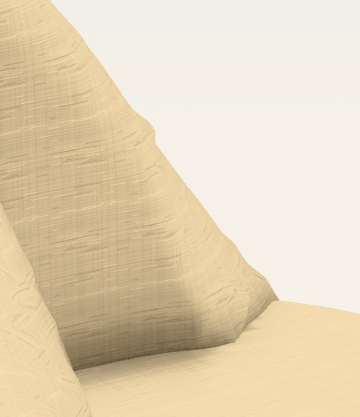
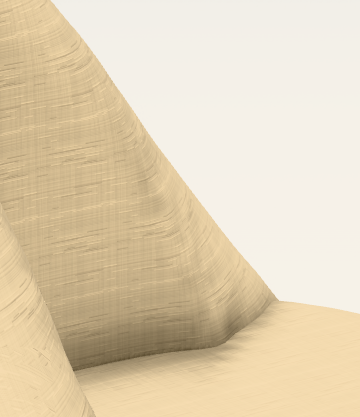
Zachte vormen: een wand met een steile bovenrand juist rekenen (naad van Pebble)
Gemeten op 13/11: waar de bovenrand van een gebogen wand steil zakt, was de afstand uit de motor bij
61 % (Pebble) en 74 % (Ross) van de punten meer dan 10 % fout, en week de richting tot ±100° af.
Twee oorzaken, allebei in `wand` (zachtevorm.ts):
- de hoogte van de rand volgde het dichtste punt van het pad, en dat verspringt op elk hoekpunt
  (trapjes tot 1 cm). Ze volgt nu de plaats tussen de twee verstekken van een stuk: overal vloeiend;
- de afstand werd niet gedeeld door de lengte van de helling.
Het oppervlak op de middenlijn blijft op de opgegeven hoogtes (test), dus boven- en vooraanzicht kloppen
nog. Nu 0 % fouten bij Pebble en Ross, zelfde rekentijd. Doha, Montego en de andere beelden: 0,00 %
verschil. Referenties van Pebble vernieuwd (heel beeld 0,05 %, close-up van de naad 1,47 %).

Claude-Session: https://claude.ai/code/session_01PczewFp9M8BS44vqTSpk6u

diff --git a/packages/core/src/zachtevorm.ts b/packages/core/src/zachtevorm.ts
@@ -137,33 +137,54 @@ function wand(b: Blok): Primitief {
   const pad = b.pad!, hoog = b.hoogtes!, w = (b.dikte ?? 14) / 2, onder = b.y;
   const n = pad.length;
   const xs = pad.map((p) => p[0]), zs = pad.map((p) => p[1]);
+  // Richting van het pad per punt: het gemiddelde van de twee stukken ernaast (de verstekrichting), genormaliseerd.
+  const vx = new Float64Array(n), vz = new Float64Array(n);
+  for (let i = 0; i < n; i++) {
+    let ax = 0, az = 0;
+    for (const k of [i - 1, i]) {
+      if (k < 0 || k > n - 2) continue;
+      const ux = pad[k + 1]![0] - pad[k]![0], uz = pad[k + 1]![1] - pad[k]![1], l = Math.hypot(ux, uz) || 1;
+      ax += ux / l; az += uz / l;
+    }
+    const l = Math.hypot(ax, az) || 1;
+    vx[i] = ax / l; vz[i] = az / l;
+  }
   /**
    * Dichtste punt op de middenlijn (in het grondvlak), gezocht in de stukken `van` tot en met `tot` van het pad: het
-   * verschil ernaartoe (0, 1), de hoogte daar (2), de helling van de bovenkant langs het pad maal de richting van het pad
-   * (3, 4) en het stuk (5). Aan een hoekpunt of uiteinde staat het dichtste punt stil: geen helling.
+   * verschil ernaartoe (0, 1), de hoogte van de bovenrand ter plaatse (2), de helling van die hoogte in het grondvlak
+   * (3, 4) en het stuk van het dichtste punt (5).
+   *
+   * De hoogte volgt niet het dichtste punt maar de plaats tussen de twee verstekken van een stuk (de lijnen door zijn
+   * eindpunten, haaks op de gemiddelde richting daar). Het dichtste punt verspringt op elk hoekpunt van het pad: aan de
+   * binnenkant van een bocht een sprong, aan de buitenkant een stukje waar het stilstaat. Op een steile rand gaf dat
+   * trapjes tot 1 cm in de hoogte: een bobbelige schaal (Pebble, gemeten op 13/11). Tussen de verstekken loopt de hoogte
+   * overal vloeiend door, ook rond een hoekpunt. Voorbij een uiteinde blijft de hoogte die van het uiteinde (ronde kop).
    */
   const dichtste = (x: number, z: number, o: Float64Array, van = 0, tot = n - 2) => {
-    let beste = Infinity, qx = 0, qz = 0, top = onder, hx = 0, hz = 0, stuk = 0;
+    let beste = Infinity, qx = 0, qz = 0, top = onder, hx = 0, hz = 0, stuk = van;
     for (let i = van; i <= tot; i++) {
       const ax = pad[i]![0], az = pad[i]![1], bx = pad[i + 1]![0], bz = pad[i + 1]![1];
       const ux = bx - ax, uz = bz - az, l2 = ux * ux + uz * uz || 1e-9;
       const t = Math.max(0, Math.min(1, ((x - ax) * ux + (z - az) * uz) / l2));
       const cx = ax + t * ux, cz = az + t * uz, d2 = (x - cx) * (x - cx) + (z - cz) * (z - cz);
-      if (d2 < beste) {
-        beste = d2; qx = cx; qz = cz; top = hoog[i]! + t * (hoog[i + 1]! - hoog[i]!); stuk = i;
-        if (t > 0 && t < 1) { const hel = (hoog[i + 1]! - hoog[i]!) / l2; hx = hel * ux; hz = hel * uz; }
-        else {
-          // Op een hoekpunt van het pad (niet aan een uiteinde): de gemiddelde helling van de twee stukken ernaast. Met
-          // helling nul sprong de richting daar: lichte vlekjes om de 2 cm op een oplopende wand, aan de buitenkant van
-          // een bocht (Pebble, 5/11).
-          const j = t <= 0 ? i : i + 1;
-          if (j > 0 && j < n - 1) {
-            const vx = pad[j + 1]![0] - pad[j - 1]![0], vz = pad[j + 1]![1] - pad[j - 1]![1], v2 = vx * vx + vz * vz || 1e-9;
-            const hel = (hoog[j + 1]! - hoog[j - 1]!) / v2;
-            hx = hel * vx; hz = hel * vz;
-          } else hx = hz = 0;
-        }
-      }
+      if (d2 < beste) { beste = d2; qx = cx; qz = cz; stuk = i; }
+    }
+    // Het stuk waarvan de twee verstekken dit punt insluiten: dat van het dichtste punt, of een buur.
+    let i = stuk, f0 = 0, f1 = 0;
+    for (let stap = 0; stap < 6; stap++) {
+      f0 = (x - pad[i]![0]) * vx[i]! + (z - pad[i]![1]) * vz[i]!;
+      f1 = (pad[i + 1]![0] - x) * vx[i + 1]! + (pad[i + 1]![1] - z) * vz[i + 1]!;
+      if (f0 < 0 && i > 0) i--;
+      else if (f1 < 0 && i < n - 2) i++;
+      else break;
+    }
+    const dh = hoog[i + 1]! - hoog[i]!;
+    if (f0 <= 0) top = hoog[i]!;
+    else if (f1 <= 0) top = hoog[i + 1]!;
+    else {
+      const som = f0 + f1, g = dh / (som * som);
+      top = hoog[i]! + (dh * f0) / som;
+      hx = g * (f1 * vx[i]! + f0 * vx[i + 1]!); hz = g * (f1 * vz[i]! + f0 * vz[i + 1]!);
     }
     o[0] = x - qx; o[1] = z - qz; o[2] = top; o[3] = hx; o[4] = hz; o[5] = stuk;
   };
@@ -202,8 +223,13 @@ function wand(b: Blok): Primitief {
       // richting (anders kloppen de normalen niet waar de wand oploopt of zakt, bv. rond het ronde uiteinde).
       const mee = y > top - w ? ly : 0;
       if (db > dc) schrijf(uit, db, 0, -1, 0);
-      else if (l > 1e-9) schrijf(uit, dc, lx - mee * o[3]!, ly, lz - mee * o[4]!);
-      else schrijf(uit, dc, 0, 1, 0);
+      else if (l > 1e-9) {
+        // Waar de bovenrand oploopt of zakt, verandert `dc` sneller dan 1 cm per cm (de doorsnede schuift mee met de
+        // hoogte): gedeeld door de lengte van de helling wordt het weer een echte afstand. Zonder dit legde de motor de
+        // punten naast het oppervlak waar de rand steil is. Het oppervlak zelf (dc = 0) verschuift hierdoor niet.
+        const gx = lx - mee * o[3]!, gz = lz - mee * o[4]!, gl = Math.sqrt(gx * gx + ly * ly + gz * gz);
+        schrijf(uit, gl > 1e-9 ? (dc * l) / gl : dc, gx, ly, gz);
+      } else schrijf(uit, dc, 0, 1, 0);
     },
   };
 }

diff --git a/packages/core/test/zachtevorm.test.ts b/packages/core/test/zachtevorm.test.ts
@@ -171,4 +171,42 @@ describe('gebogen wand die oploopt (Pebble, 5/11)', () => {
     }
     expect(mis / v.driehoeken).toBeLessThan(0.04);
   });
+
+  it('klopt op een steile rand: de afstand is een echte afstand en de richting volgt het veld (13/11)', () => {
+    // Pebble (schaal van 24 cm, rand tot 1,57 cm per cm) en Ross (wand als zachte vorm). Vóór 13/11 was de afstand op het
+    // steile deel bij 61 % en 74 % van de punten meer dan 10 % fout, en week de richting tot ±100° af: bobbelige naad.
+    for (const code of ['pebble', 'ross']) {
+      const s = bouw3D(structuredClone(zetelModellen.find((m) => m.code === code)!.ontwerp), zetelCatalogus, standaardMaterialen);
+      const rug = { ...s.blokken.find((b) => b.vorm === 'kuipwand')!, glad: true };
+      const pad = rug.pad!, hoog = rug.hoogtes!, w = rug.dikte! / 2;
+      const steilst = Math.max(...pad.slice(1).map((q, i) => Math.abs(hoog[i + 1]! - hoog[i]!) / Math.hypot(q[0] - pad[i]![0], q[1] - pad[i]![1])));
+      expect(steilst).toBeGreaterThan(1);
+      const v = zachteVorm([rug], { minAfronding: 0 }), veld = zachtVeld([rug], 4, 10, 0), h = 0.05;
+      let punten = 0, geenAfstand = 0, scheef = 0;
+      for (let i = 0; i < v.driehoeken * 3; i += 7) {
+        const x = v.posities[i * 3]!, y = v.posities[i * 3 + 1]!, z = v.posities[i * 3 + 2]!;
+        if (y < Math.min(...hoog) - w) continue; // de bovenste ronding en wat eronder ligt
+        const gx = (veld(x + h, y, z) - veld(x - h, y, z)) / (2 * h), gy = (veld(x, y + h, z) - veld(x, y - h, z)) / (2 * h), gz = (veld(x, y, z + h) - veld(x, y, z - h)) / (2 * h);
+        const l = Math.hypot(gx, gy, gz);
+        punten++;
+        if (Math.abs(l - 1) > 0.1) geenAfstand++;
+        if ((gx * v.normalen[i * 3]! + gy * v.normalen[i * 3 + 1]! + gz * v.normalen[i * 3 + 2]!) / (l || 1) < Math.cos((10 * Math.PI) / 180)) scheef++;
+      }
+      expect(punten).toBeGreaterThan(300);
+      expect(geenAfstand / punten).toBeLessThan(0.01);
+      expect(scheef / punten).toBeLessThan(0.01);
+    }
+  });
+
+  it('de bovenrand blijft op de opgegeven hoogtes, ook waar hij steil zakt', () => {
+    const s = bouw3D(structuredClone(zetelModellen.find((m) => m.code === 'pebble')!.ontwerp), zetelCatalogus, standaardMaterialen);
+    const rug = s.blokken.find((b) => b.code === 'e1.rug')!;
+    const veld = zachtVeld([rug], 4, 10, 0);
+    rug.pad!.forEach(([x, z], i) => {
+      // Recht boven de middenlijn ligt het oppervlak op de hoogte van dat punt: dat lezen ook het boven- en vooraanzicht.
+      expect(Math.abs(veld(x, rug.hoogtes![i]!, z))).toBeLessThan(0.02);
+      expect(veld(x, rug.hoogtes![i]! + 1, z)).toBeGreaterThan(0);
+      expect(veld(x, rug.hoogtes![i]! - 1, z)).toBeLessThan(0);
+    });
+  });
 });
